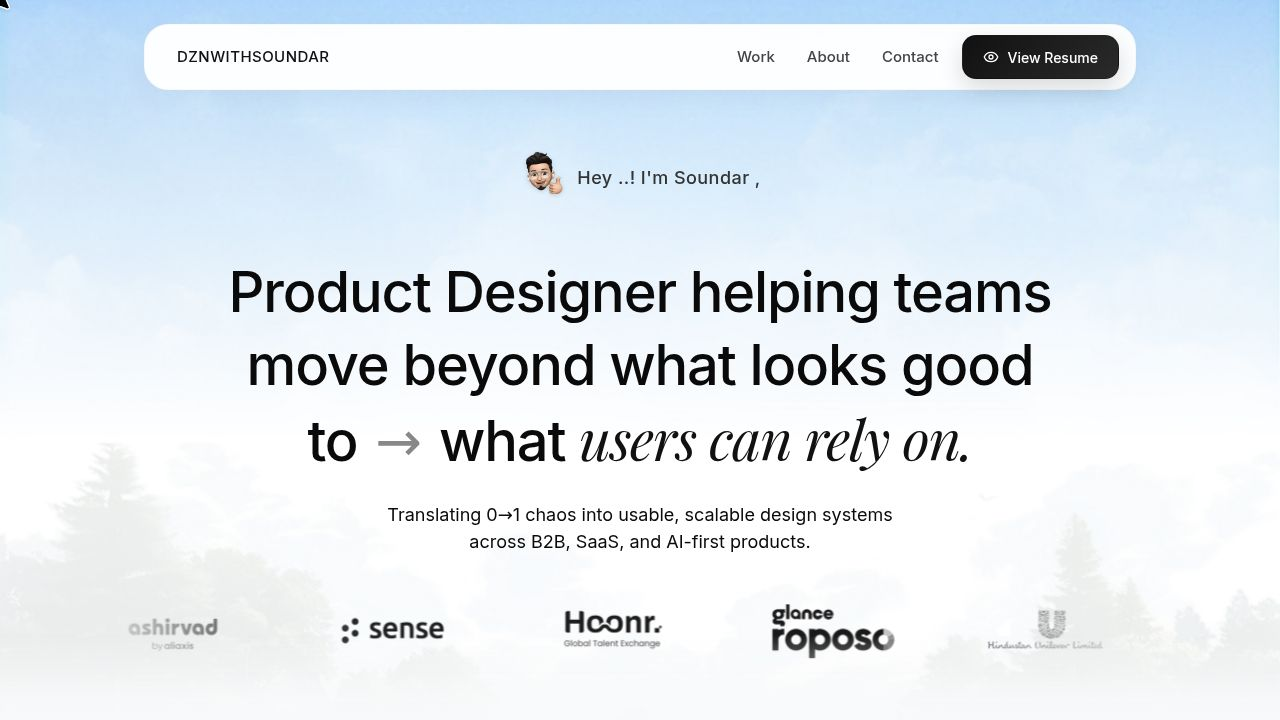
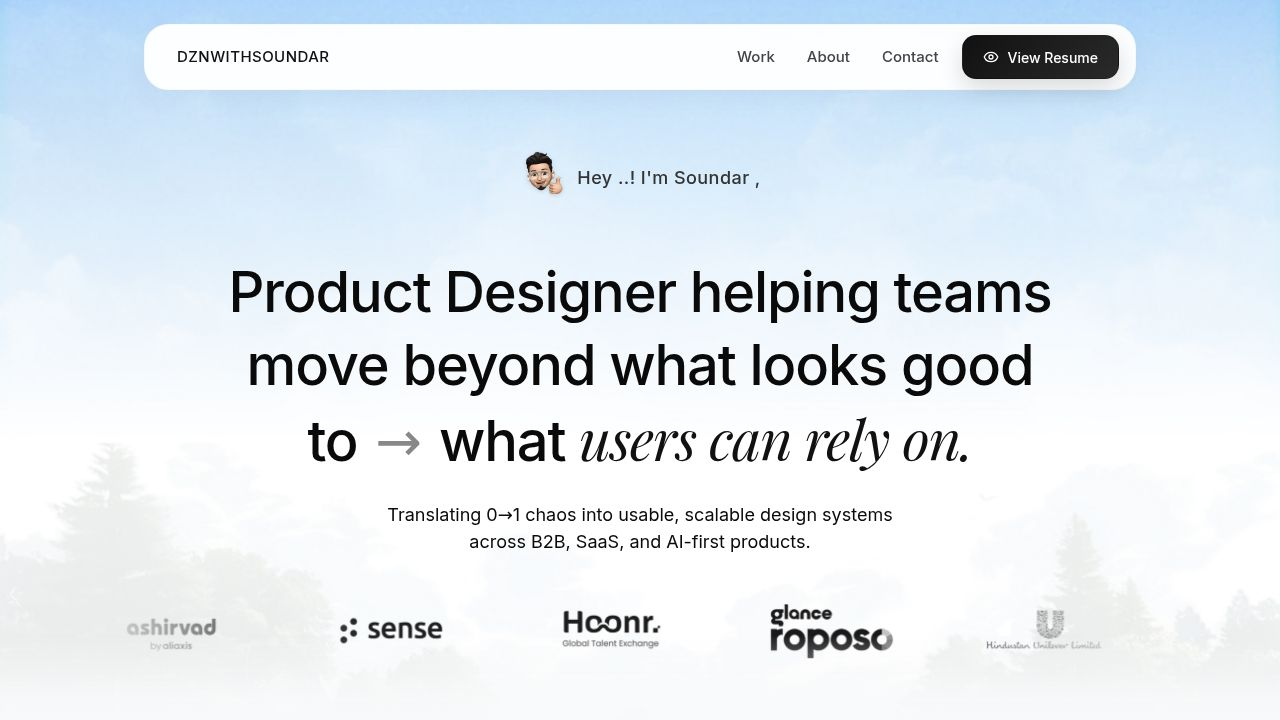
Remove custom cursor and back arrow from project pages
Removes the custom smooth cursor component from App.tsx and the back arrow navigation from ProjectDetail pages.

Replit-Commit-Author: Agent
Replit-Commit-Session-Id: 386be520-03b3-4c4a-8b93-7eb0ee330c82
Replit-Commit-Checkpoint-Type: full_checkpoint
Replit-Commit-Event-Id: 2acc6bc7-3dcb-461c-a09a-1602e4816f61
Replit-Commit-Screenshot-Url: https://storage.googleapis.com/screenshot-production-us-central1/e06b2b63-bfd4-49fe-b2f3-cd91cb2347d5/386be520-03b3-4c4a-8b93-7eb0ee330c82/juiuOQ1
Replit-Helium-Checkpoint-Created: true

diff --git a/client/src/pages/ProjectDetail1.tsx b/client/src/pages/ProjectDetail1.tsx
@@ -16,15 +16,6 @@ export default function ProjectDetail1({ hideHeader = false }: { hideHeader?: bo
 
   return (
     <main className="min-h-screen bg-white text-foreground selection:bg-primary selection:text-primary-foreground relative pt-[0px]">
-      {!hideHeader && (
-        <div className="fixed top-6 left-4 md:left-8 z-50">
-        <Link href="/">
-          <span className="bg-white/95 backdrop-blur-md flex items-center justify-center px-6 py-3 rounded-full shadow-[0_8px_30px_rgb(0,0,0,0.04)] border-2 border-black hover:bg-black transition-all group mt-[20px] ml-[40px] cursor-pointer">
-            <ArrowLeft className="w-5 h-5 text-black group-hover:text-white group-hover:-translate-x-1 transition-all" strokeWidth={2.5} />
-          </span>
-        </Link>
-      </div>
-      )}
       {/* Top Banner section */}
       {hideHeader ? (
         <div 

diff --git a/client/src/pages/ProjectDetail3.tsx b/client/src/pages/ProjectDetail3.tsx
@@ -15,15 +15,6 @@ export default function ProjectDetail3({ hideHeader = false }: { hideHeader?: bo
 
   return (
     <main className="min-h-screen bg-white text-foreground selection:bg-primary selection:text-primary-foreground relative pt-[0px]">
-      {!hideHeader && (
-        <div className="fixed top-6 left-4 md:left-8 z-50">
-        <Link href="/">
-          <span className="bg-white/95 backdrop-blur-md flex items-center justify-center px-6 py-3 rounded-full shadow-[0_8px_30px_rgb(0,0,0,0.04)] border-2 border-black hover:bg-black transition-all group mt-[20px] ml-[40px]">
-            <ArrowLeft className="w-5 h-5 text-black group-hover:text-white group-hover:-translate-x-1 transition-all" strokeWidth={2.5} />
-          </span>
-        </Link>
-      </div>
-      )}
       {/* Top Banner section */}
       {hideHeader ? (
         <div 

diff --git a/client/src/pages/ProjectDetail2.tsx b/client/src/pages/ProjectDetail2.tsx
@@ -15,15 +15,6 @@ export default function ProjectDetail2({ hideHeader = false }: { hideHeader?: bo
 
   return (
     <main className="min-h-screen bg-white text-foreground selection:bg-primary selection:text-primary-foreground relative pt-[0px]">
-      {!hideHeader && (
-        <div className="fixed top-6 left-4 md:left-8 z-50">
-        <Link href="/">
-<span className="bg-white/95 backdrop-blur-md flex items-center justify-center px-6 py-3 rounded-full shadow-[0_8px_30px_rgb(0,0,0,0.04)] border-2 border-black hover:bg-black transition-all group mt-[20px] ml-[40px]">
-            <ArrowLeft className="w-5 h-5 text-black group-hover:text-white group-hover:-translate-x-1 transition-all" strokeWidth={2.5} />
-          </span>
-</Link>
-      </div>
-      )}
       {/* Top Banner section */}
       {hideHeader ? (
         <div 

diff --git a/client/src/App.tsx b/client/src/App.tsx
@@ -27,7 +27,6 @@ function App() {
     <QueryClientProvider client={queryClient}>
       <TooltipProvider>
         <Toaster />
-        <SmoothCursor />
         <Router />
       </TooltipProvider>
     </QueryClientProvider>
